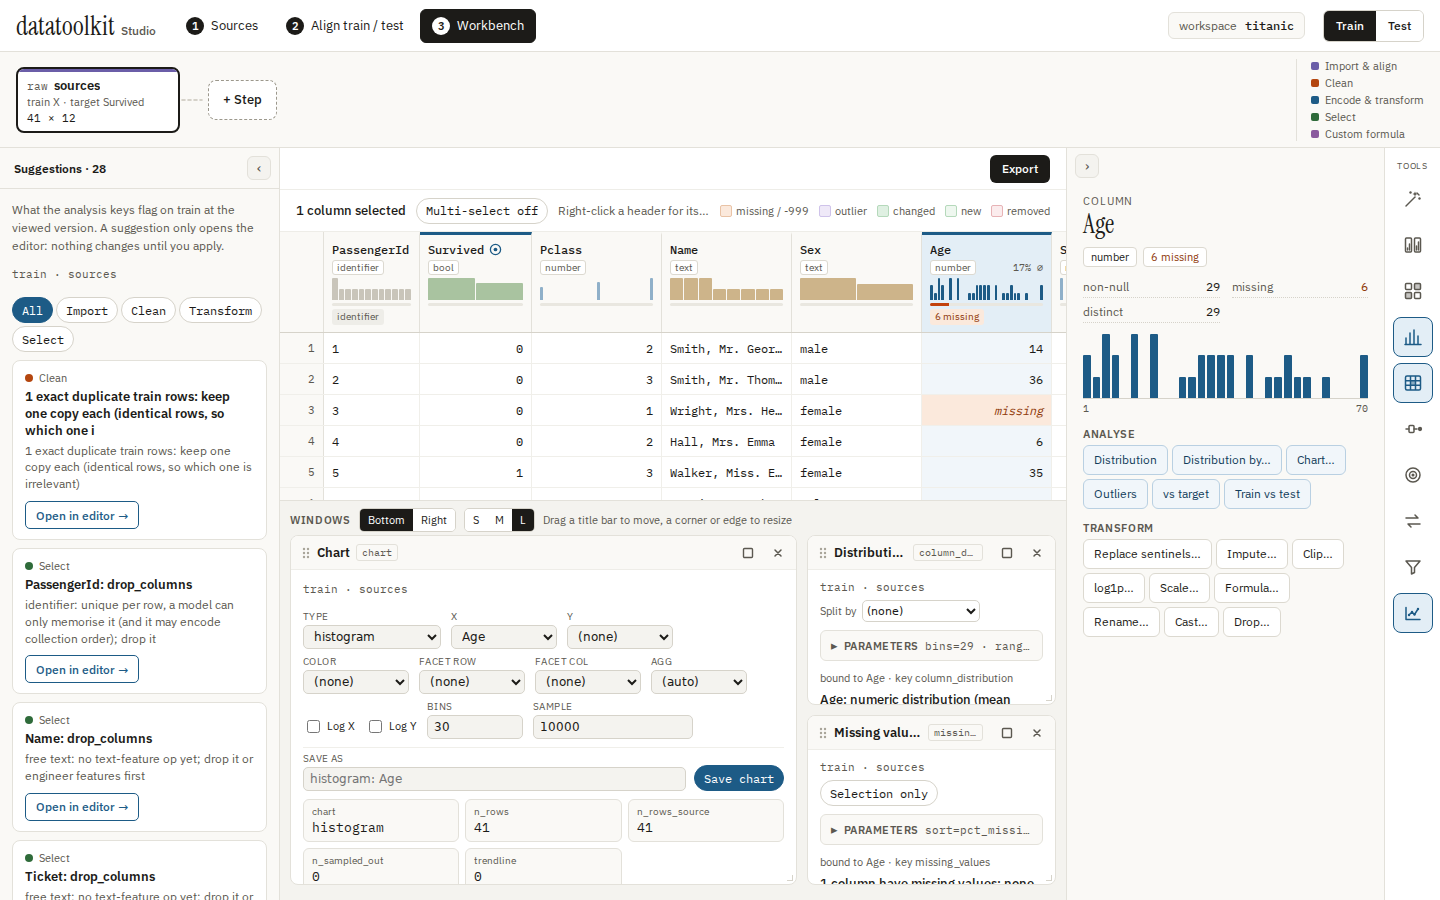
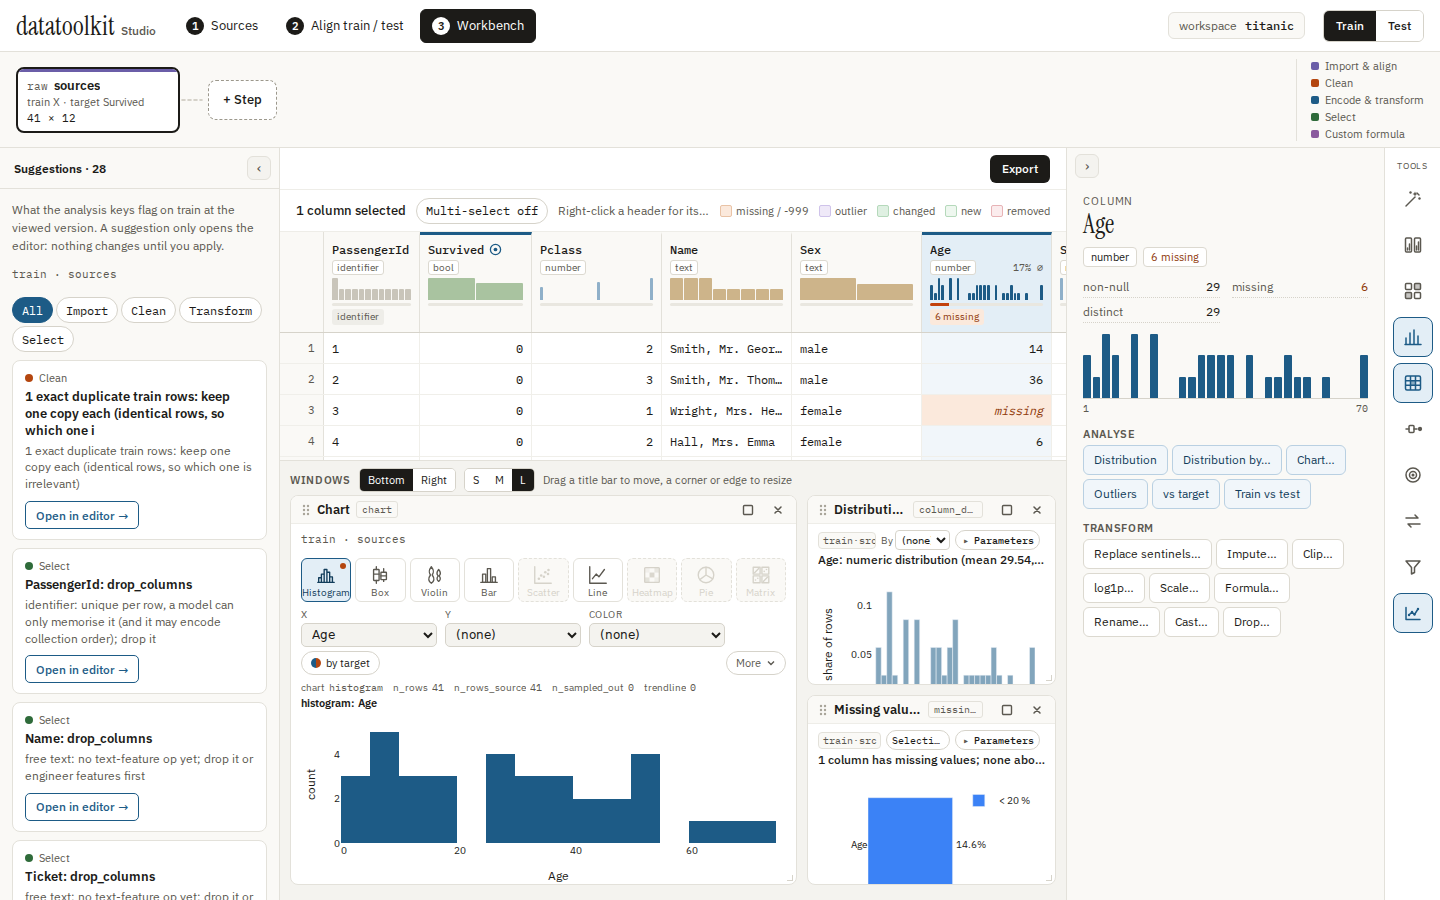
feat(studio): larger default grid size for Chart window (MAT-252) (#47)
* feat(studio): larger default grid size for Chart window (MAT-252)

- Define TOOL_DEFAULT_SIZES and defaultWindowSize in dockLayout.ts so Chart opens at half the dock width (6 of 12 columns) and full visible height (8 rows) in bottom dock, and full width (2 of 2 cols) in right dock.
- Keep standard grid defaults (4x8 bottom, 2x6 right) for all other tools and preserve existing saved layouts.
- Add unit tests in tests/dockLayout.test.ts covering defaultWindowSize, syncDockLayouts placement, and saved layout preservation.
- Add e2e spec e2e/mat252-chart-size.spec.ts verifying side-by-side placement with standard windows, width ratio (~1.5x width, ~2x figure area), and figure visibility, with screenshot.

* fix(studio): keep newly opened dock window fully visible (MAT-252)

- Reduce new window width to available visible free space (min 4 columns in bottom dock).
- Rearrange open windows evenly if no slot fits so all remain visible without scroll.
- Add findVisibleSpot helper and comprehensive unit tests for 1-4 windows.
- Update MAT-234 e2e test to assert Chart window is fully visible in dock.

* test(studio): refresh MAT-234 and MAT-252 dock e2e screenshots

---------

Changed region(s): [[0.1875, 0.4978, 0.7188, 0.9956], [0.5625, 0.4978, 0.5938, 0.5289], [0.5, 0.7156, 0.5312, 0.7467]]

diff --git a/src/bench/dock/dockLayout.ts b/src/bench/dock/dockLayout.ts
@@ -34,6 +34,29 @@ export const DOCK_GRID: Record<DockPos, DockGridSpec> = {
   right: { cols: 2, rows: 12, w: 2, h: 6, minW: 1, minH: 3 },
 };
 
+/** Default window size in grid units per tool and dock position (MAT-252). */
+export const TOOL_DEFAULT_SIZES: Partial<
+  Record<ToolId, Partial<Record<DockPos, { w: number; h: number }>>>
+> = {
+  chart: {
+    // Bottom dock: ~half dock width (6 of 12 cols) and full dock height (8 rows).
+    bottom: { w: 6, h: 8 },
+    // Right dock: full pane width (2 of 2 cols).
+    right: { w: 2, h: 6 },
+  },
+};
+
+/** Default size of a newly opened window for a tool at a dock position. */
+export function defaultWindowSize(
+  id: ToolId,
+  pos: DockPos,
+): { w: number; h: number } {
+  const custom = TOOL_DEFAULT_SIZES[id]?.[pos];
+  if (custom) return custom;
+  const spec = DOCK_GRID[pos];
+  return { w: spec.w, h: spec.h };
+}
+
 /** Upper bound on stored rows so a corrupt entry cannot blow up the grid. */
 const MAX_ROWS = 200;
 
@@ -66,6 +89,29 @@ export function findSpot(
   return { x: 0, y: maxY };
 }
 
+/**
+ * First top-left slot within the dock's visible rows where a `w`×`h` rect
+ * fits without overlap. Returns null if no visible slot exists.
+ */
+export function findVisibleSpot(
+  layout: DockLayout,
+  cols: number,
+  rows: number,
+  w: number,
+  h: number,
+): { x: number; y: number } | null {
+  const rects = Object.values(layout).filter((r): r is DockRect => !!r);
+  const width = Math.min(w, cols);
+  const height = Math.min(h, rows);
+  for (let y = 0; y + height <= rows; y++) {
+    for (let x = 0; x + width <= cols; x++) {
+      const cand = { x, y, w: width, h: height };
+      if (!rects.some((r) => overlaps(r, cand))) return { x, y };
+    }
+  }
+  return null;
+}
+
 function clampRect(rect: DockRect, spec: DockGridSpec): DockRect {
   const w = Math.max(spec.minW, Math.min(spec.cols, Math.round(rect.w)));
   const h = Math.max(spec.minH, Math.min(MAX_ROWS, Math.round(rect.h)));
@@ -76,8 +122,16 @@ function clampRect(rect: DockRect, spec: DockGridSpec): DockRect {
 
 /**
  * Keep exactly the open `tools` in every position's layout: drop closed
- * windows, give new ones the default size at the first free slot (in `tools`
- * order, so the oldest window stays top-left).
+ * windows, give new ones their default size or fit them in the visible dock
+ * area without scroll.
+ *
+ * Sizing strategy for new windows (MAT-252):
+ * 1. Try the tool's default size in any free visible slot (y + h <= rows).
+ * 2. If no visible slot accommodates it, reduce width to the free visible
+ *    space (minimum 4 columns in bottom dock).
+ * 3. Otherwise, redistribute / rearrange open windows evenly across visible
+ *    space so every window remains visible on screen without scroll, with a
+ *    fallback to the top-right corner at minimum width.
  */
 export function syncDockLayouts(
   layouts: DockLayouts,
@@ -93,8 +147,87 @@ export function syncDockLayouts(
     }
     for (const id of tools) {
       if (out[id]) continue;
-      const { x, y } = findSpot(out, spec.cols, spec.w, spec.h);
-      out[id] = { x, y, w: spec.w, h: spec.h };
+      const size = defaultWindowSize(id, pos);
+
+      // 1. Try tool's default size in visible dock area.
+      let placed = false;
+      const visibleSpot = findVisibleSpot(
+        out,
+        spec.cols,
+        spec.rows,
+        size.w,
+        size.h,
+      );
+      if (visibleSpot) {
+        out[id] = { x: visibleSpot.x, y: visibleSpot.y, w: size.w, h: size.h };
+        placed = true;
+      }
+
+      // 2. If no visible spot, reduce width to available visible free space
+      //    (minimum 4 columns for bottom dock, minW for narrow panes).
+      if (!placed) {
+        const minW = pos === "bottom" ? Math.max(spec.minW, 4) : spec.minW;
+        for (let candidateW = size.w - 1; candidateW >= minW; candidateW--) {
+          const reducedSpot = findVisibleSpot(
+            out,
+            spec.cols,
+            spec.rows,
+            candidateW,
+            size.h,
+          );
+          if (reducedSpot) {
+            out[id] = {
+              x: reducedSpot.x,
+              y: reducedSpot.y,
+              w: candidateW,
+              h: size.h,
+            };
+            placed = true;
+            break;
+          }
+        }
+      }
+
+      // 3. Otherwise reduce/rearrange open windows so everything fits visible without scroll.
+      if (!placed) {
+        if (pos === "bottom" && tools.length > 0) {
+          const baseW = Math.floor(spec.cols / tools.length);
+          if (baseW >= spec.minW) {
+            const rem = spec.cols % tools.length;
+            let curX = 0;
+            tools.forEach((tid, i) => {
+              const itemW = baseW + (i < rem ? 1 : 0);
+              out[tid] = { x: curX, y: 0, w: itemW, h: spec.rows };
+              curX += itemW;
+            });
+            placed = true;
+          }
+        } else if (pos === "right" && tools.length > 0) {
+          const baseH = Math.floor(spec.rows / tools.length);
+          if (baseH >= spec.minH) {
+            const rem = spec.rows % tools.length;
+            let curY = 0;
+            tools.forEach((tid, i) => {
+              const itemH = baseH + (i < rem ? 1 : 0);
+              out[tid] = { x: 0, y: curY, w: spec.cols, h: itemH };
+              curY += itemH;
+            });
+            placed = true;
+          }
+        }
+
+        // Fallback: place top-right in minimum width
+        if (!placed) {
+          const fallbackW = spec.minW;
+          const fallbackH = Math.min(size.h, spec.rows);
+          out[id] = {
+            x: Math.max(0, spec.cols - fallbackW),
+            y: 0,
+            w: fallbackW,
+            h: fallbackH,
+          };
+        }
+      }
     }
     next[pos] = out;
   }

diff --git a/tests/dockLayout.test.ts b/tests/dockLayout.test.ts
@@ -3,10 +3,13 @@ import { afterEach, beforeEach, describe, expect, it, vi } from "vitest";
 import type { Workspace } from "../src/api/types";
 import {
   DOCK_GRID,
+  TOOL_DEFAULT_SIZES,
   applyGridLayout,
+  defaultWindowSize,
   dockRowHeight,
   emptyDockLayouts,
   findSpot,
+  findVisibleSpot,
   sanitizeDockLayouts,
   syncDockLayouts,
   toGridItems,
@@ -125,6 +128,94 @@ describe("dockLayout helpers (MAT-234)", () => {
     // bottom: 8 rows, 7 gaps of 10 px.
     expect(dockRowHeight(470, "bottom", 10)).toBe(50);
     expect(dockRowHeight(10, "bottom", 10)).toBe(24);
+  });
+
+  it("findVisibleSpot finds slots within the visible rows only", () => {
+    const two = {
+      dist: { x: 0, y: 0, w: 4, h: 8 },
+      missing: { x: 4, y: 0, w: 4, h: 8 },
+    };
+    // 6 cols wide does not fit on row 0 (only 4 cols left); row 8 is offscreen.
+    expect(findVisibleSpot(two, 12, 8, 6, 8)).toBeNull();
+    // 4 cols wide fits on row 0.
+    expect(findVisibleSpot(two, 12, 8, 4, 8)).toEqual({ x: 8, y: 0 });
+  });
+
+  describe("per-tool default sizes (MAT-252)", () => {
+    it("defaultWindowSize gives Chart a larger default size and keeps standard for others", () => {
+      expect(TOOL_DEFAULT_SIZES.chart?.bottom).toEqual({ w: 6, h: 8 });
+      expect(TOOL_DEFAULT_SIZES.chart?.right).toEqual({ w: 2, h: 6 });
+      expect(defaultWindowSize("chart", "bottom")).toEqual({ w: 6, h: 8 });
+      expect(defaultWindowSize("chart", "right")).toEqual({ w: 2, h: 6 });
+
+      // Other tools keep standard grid defaults (4x8 in bottom, 2x6 in right).
+      expect(defaultWindowSize("dist", "bottom")).toEqual({ w: 4, h: 8 });
+      expect(defaultWindowSize("compare", "bottom")).toEqual({ w: 4, h: 8 });
+      expect(defaultWindowSize("dist", "right")).toEqual({ w: 2, h: 6 });
+    });
+
+    it("syncDockLayouts opens Chart 1st at half width, then adapts cleanly as more windows open", () => {
+      // 1 window: Chart alone takes the left half (6 cols) and full height (8 rows).
+      const one = syncDockLayouts(emptyDockLayouts(), ["chart"]);
+      expect(one.bottom.chart).toEqual({ x: 0, y: 0, w: 6, h: 8 });
+
+      // 2 windows: Chart (w6) and dist (w4) fit side by side on row 0 (6+4=10 <= 12).
+      const two = syncDockLayouts(emptyDockLayouts(), ["chart", "dist"]);
+      expect(two.bottom.chart).toEqual({ x: 0, y: 0, w: 6, h: 8 });
+      expect(two.bottom.dist).toEqual({ x: 6, y: 0, w: 4, h: 8 });
+
+      // 3 windows: 3rd window cannot fit at >=4 cols in remaining 2 cols, so windows
+      // redistribute evenly to 4 cols each (full height, all visible without scroll).
+      const three = syncDockLayouts(emptyDockLayouts(), ["chart", "dist", "missing"]);
+      expect(three.bottom.chart).toEqual({ x: 0, y: 0, w: 4, h: 8 });
+      expect(three.bottom.dist).toEqual({ x: 4, y: 0, w: 4, h: 8 });
+      expect(three.bottom.missing).toEqual({ x: 8, y: 0, w: 4, h: 8 });
+
+      // 4 windows: windows redistribute evenly to 3 cols each (all visible without scroll).
+      const four = syncDockLayouts(emptyDockLayouts(), ["chart", "dist", "missing", "corr"]);
+      expect(four.bottom.chart).toEqual({ x: 0, y: 0, w: 3, h: 8 });
+      expect(four.bottom.dist).toEqual({ x: 3, y: 0, w: 3, h: 8 });
+      expect(four.bottom.missing).toEqual({ x: 6, y: 0, w: 3, h: 8 });
+      expect(four.bottom.corr).toEqual({ x: 9, y: 0, w: 3, h: 8 });
+    });
+
+    it("syncDockLayouts places Chart 3rd by reducing to visible free space (4 cols)", () => {
+      // Chart opened after dist: dist takes 4 cols (0..3), chart takes 6 cols (4..9).
+      const distThenChart = syncDockLayouts(emptyDockLayouts(), ["dist", "chart"]);
+      expect(distThenChart.bottom.dist).toEqual({ x: 0, y: 0, w: 4, h: 8 });
+      expect(distThenChart.bottom.chart).toEqual({ x: 4, y: 0, w: 6, h: 8 });
+
+      // Two standard tools take 8 cols (0..7); Chart reduces from w=6 to visible
+      // free space (w=4) so it stays completely visible on row 0 without scroll.
+      const twoThenChart = syncDockLayouts(emptyDockLayouts(), ["dist", "missing", "chart"]);
+      expect(twoThenChart.bottom.dist).toEqual({ x: 0, y: 0, w: 4, h: 8 });
+      expect(twoThenChart.bottom.missing).toEqual({ x: 4, y: 0, w: 4, h: 8 });
+      expect(twoThenChart.bottom.chart).toEqual({ x: 8, y: 0, w: 4, h: 8 });
+    });
+
+    it("syncDockLayouts places Chart 4th by rearranging all 4 windows into 3 cols each", () => {
+      // Three standard tools take all 12 cols (4x3); opening Chart 4th redistributes
+      // all 4 windows into 3 cols each (3x4 = 12 cols), visible on row 0 without scroll.
+      const fourTools = syncDockLayouts(emptyDockLayouts(), [
+        "dist",
+        "missing",
+        "corr",
+        "chart",
+      ]);
+      expect(fourTools.bottom.dist).toEqual({ x: 0, y: 0, w: 3, h: 8 });
+      expect(fourTools.bottom.missing).toEqual({ x: 3, y: 0, w: 3, h: 8 });
+      expect(fourTools.bottom.corr).toEqual({ x: 6, y: 0, w: 3, h: 8 });
+      expect(fourTools.bottom.chart).toEqual({ x: 9, y: 0, w: 3, h: 8 });
+    });
+
+    it("syncDockLayouts preserves saved/stored layouts even for Chart", () => {
+      const stored = {
+        bottom: { chart: { x: 8, y: 0, w: 4, h: 4 } },
+        right: {},
+      };
+      const synced = syncDockLayouts(stored, ["chart"]);
+      expect(synced.bottom.chart).toEqual({ x: 8, y: 0, w: 4, h: 4 });
+    });
   });
 });
 

diff --git a/e2e/mat252-chart-size.spec.ts b/e2e/mat252-chart-size.spec.ts
@@ -1,0 +1,81 @@
+import { expect, test, type Locator, type Page } from "@playwright/test";
+import {
+  captureFlowScreenshot,
+  clearFlowScreenshots,
+  openWorkspaceBench,
+  titanicWorkspace,
+  waitForGridReady,
+} from "./helpers";
+
+const FLOW = "mat252-chart-size";
+
+type Box = { x: number; y: number; width: number; height: number };
+
+async function box(loc: Locator): Promise<Box> {
+  const b = await loc.boundingBox();
+  if (!b) throw new Error("element has no bounding box");
+  return b;
+}
+
+async function dockLayout(page: Page) {
+  return page.evaluate(() => window.__DTK_STATE__!().dock.layouts.bottom);
+}
+
+test("MAT-252: Chart opens with a larger default size (~half dock width, full height)", async ({
+  page,
+}) => {
+  test.setTimeout(240_000);
+  clearFlowScreenshots(FLOW);
+  await page.setViewportSize({ width: 1440, height: 900 });
+
+  await openWorkspaceBench(page, titanicWorkspace(), "Age");
+
+  // Open Chart and a standard default window (Distribution) side by side.
+  // Chart gets w=6 (half the 12-col dock), Dist gets w=4 (1/3 dock width).
+  // Both fit on row 0 (6 + 4 = 10 <= 12).
+  await page.evaluate(() => {
+    const d = window.__DTK_DISPATCH__!;
+    d({ type: "PICK_COL", name: "Age" });
+    d({ type: "OPEN_TOOL", id: "chart" });
+    d({ type: "OPEN_TOOL", id: "dist" });
+  });
+
+  const dock = page.getByLabel("Tool dock");
+  const chart = dock.locator('.dock-window[data-tool="chart"]');
+  const dist = dock.locator('.dock-window[data-tool="dist"]');
+
+  await expect(chart).toBeVisible();
+  await expect(dist).toBeVisible();
+
+  // Wait for Chart figure to render.
+  const chartPlot = chart.locator(".js-plotly-plot").first();
+  await expect(chartPlot).toBeVisible({ timeout: 60_000 });
+  await expect(chart.locator(".dock-msg:has-text('Loading…')")).toHaveCount(0, {
+    timeout: 60_000,
+  });
+
+  // Check dock grid layout units:
+  // Chart default is ~half dock width (w=6) and full height (h=8).
+  // Standard tool (Distribution) keeps default w=4, h=8.
+  // Both fit side by side on row 0 (6 + 4 = 10 <= 12).
+  const layout = await dockLayout(page);
+  expect(layout.chart).toEqual({ x: 0, y: 0, w: 6, h: 8 });
+  expect(layout.dist).toEqual({ x: 6, y: 0, w: 4, h: 8 });
+
+  // Verify pixel dimensions: Chart width is ~1.5x of standard 4-col windows
+  // (~half dock width vs 1/3 dock width, giving ~2x visual figure area).
+  const chartB = await box(chart);
+  const distB = await box(dist);
+
+  expect(chartB.width).toBeGreaterThan(distB.width * 1.4);
+
+  // Verify the Plotly figure is fully visible and fills the Chart window comfortably.
+  const figB = await box(chartPlot);
+  expect(figB.width).toBeGreaterThan(350);
+  expect(figB.height).toBeGreaterThan(150);
+  expect(figB.x).toBeGreaterThanOrEqual(chartB.x);
+  expect(figB.y).toBeGreaterThanOrEqual(chartB.y);
+
+  await waitForGridReady(page);
+  await captureFlowScreenshot(page, FLOW, "01-chart-larger-default-size.png");
+});

diff --git a/e2e/mat234-dock-grid.spec.ts b/e2e/mat234-dock-grid.spec.ts
@@ -158,12 +158,22 @@ test("MAT-234: dock windows move and resize on a grid, layout survives reload", 
   });
 
   // Default grid: three equal windows side by side, filling the dock height.
+  // Chart (default w=6) reduces to w=4 to fit the remaining visible 4 columns.
   expect(await dockLayout(page)).toEqual({
     dist: { x: 0, y: 0, w: 4, h: 8 },
     missing: { x: 4, y: 0, w: 4, h: 8 },
     chart: { x: 8, y: 0, w: 4, h: 8 },
   });
   await expectNoOverlap(wins);
+
+  // The newly opened Chart window must be fully visible within the dock without scroll (MAT-252).
+  const dockB = await box(dock);
+  const chartB = await box(chart);
+  expect(chartB.y).toBeGreaterThanOrEqual(dockB.y - 1);
+  expect(chartB.y + chartB.height).toBeLessThanOrEqual(dockB.y + dockB.height + 2);
+  expect(chartB.x).toBeGreaterThanOrEqual(dockB.x - 1);
+  expect(chartB.x + chartB.width).toBeLessThanOrEqual(dockB.x + dockB.width + 2);
+
   await waitForGridReady(page);
   await captureFlowScreenshot(page, FLOW, "01-default-grid.png");
 
